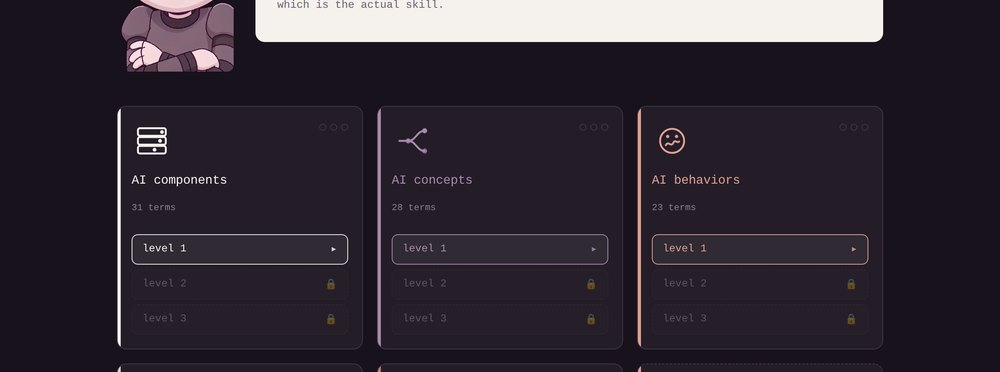
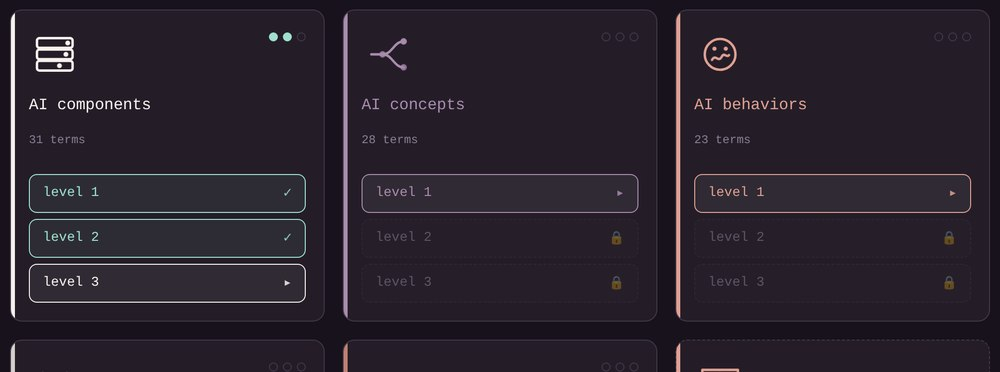
A quiz screenshot that actually shows the mechanic
The first crop caught the tail of Belle's speech bubble and only the
locked state. This one is framed on the deck and shows all three button
states at once: two levels passed with ticks, one open, the rest
padlocked. Alt text updated to match what is now in the picture.

diff --git a/work-belleofthebot.html b/work-belleofthebot.html
@@ -92,7 +92,7 @@
 <li><strong>the carousels</strong> — 133 eight-slide Instagram decks at 1080&nbsp;&times;&nbsp;1350, with captions and alt text, rendered from the same specs.</li>
 </ul>
 <div class="thumb well" style="padding:0;overflow:hidden;margin:var(--space-3) 0">
-<img src="bb-quiz.jpg" width="1000" height="372" loading="lazy" decoding="async" alt="The quiz deck: five subject cards and a bonus round, each with three level buttons, level one open and levels two and three padlocked" style="width:100%;height:auto;display:block">
+<img src="bb-quiz.jpg" width="1000" height="372" loading="lazy" decoding="async" alt="Three subject cards from the quiz deck. AI components has levels one and two ticked and level three open; AI concepts and AI behaviors have level one open and levels two and three padlocked" style="width:100%;height:auto;display:block">
 </div>
 <p class="cap">The quiz deck, generated from the same card specs as everything else.</p>
 <p>That is 1,064 slides that cannot say something different from the website, because there is nowhere for them to disagree. The alternative — a content file, a slide deck and a spreadsheet of sources — is three things to update and two that quietly go stale.</p>
